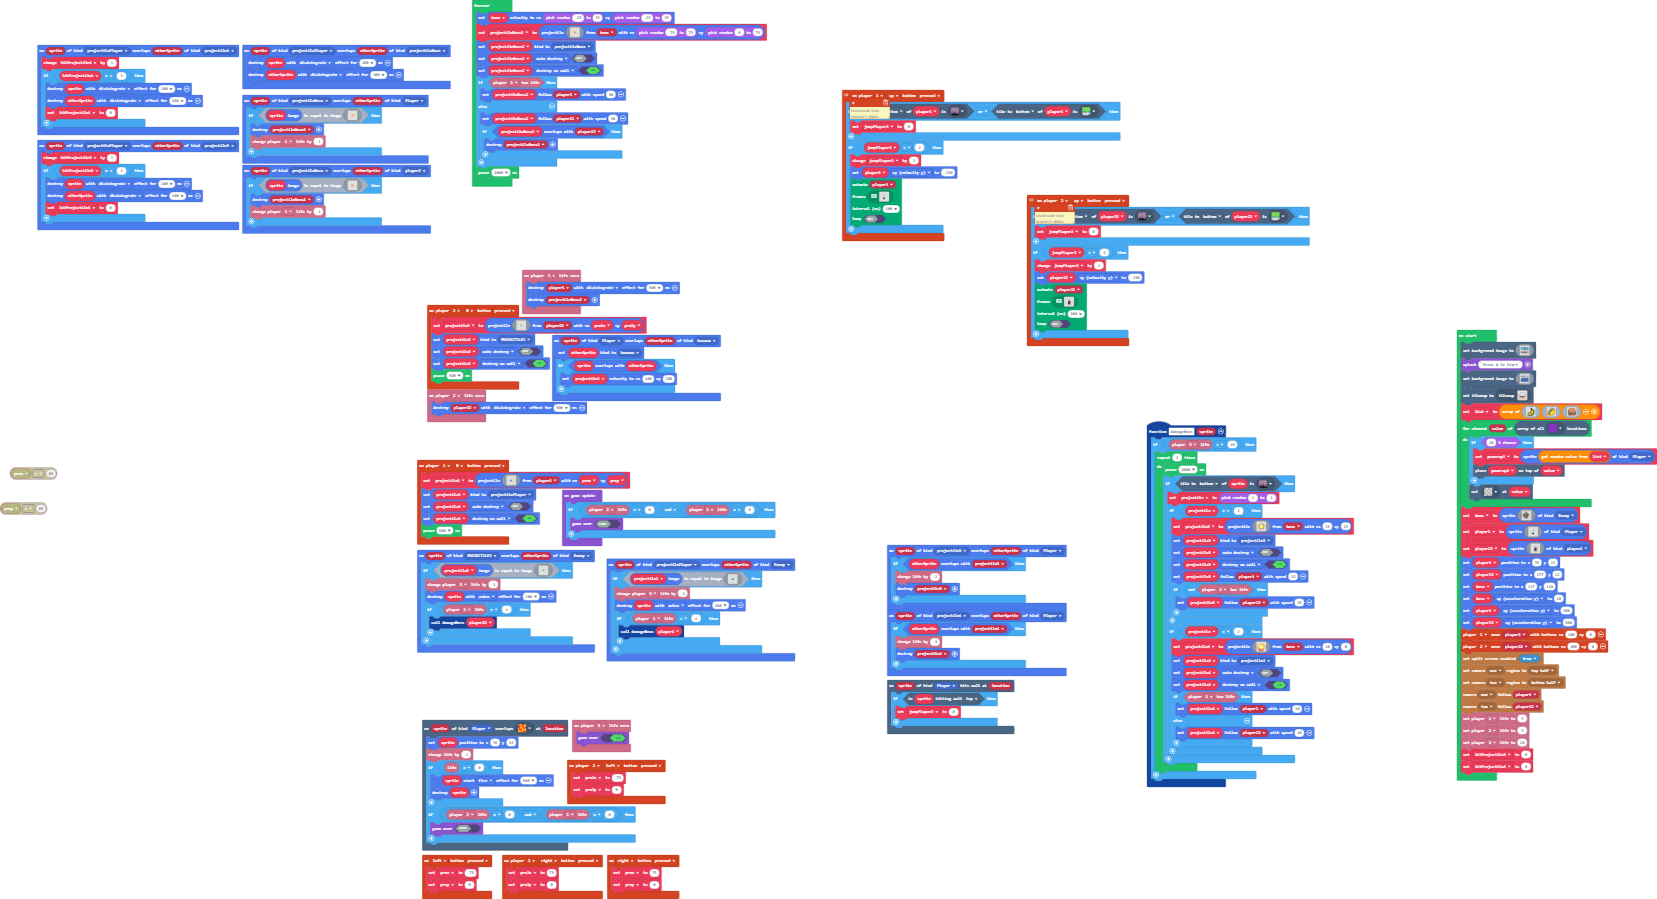
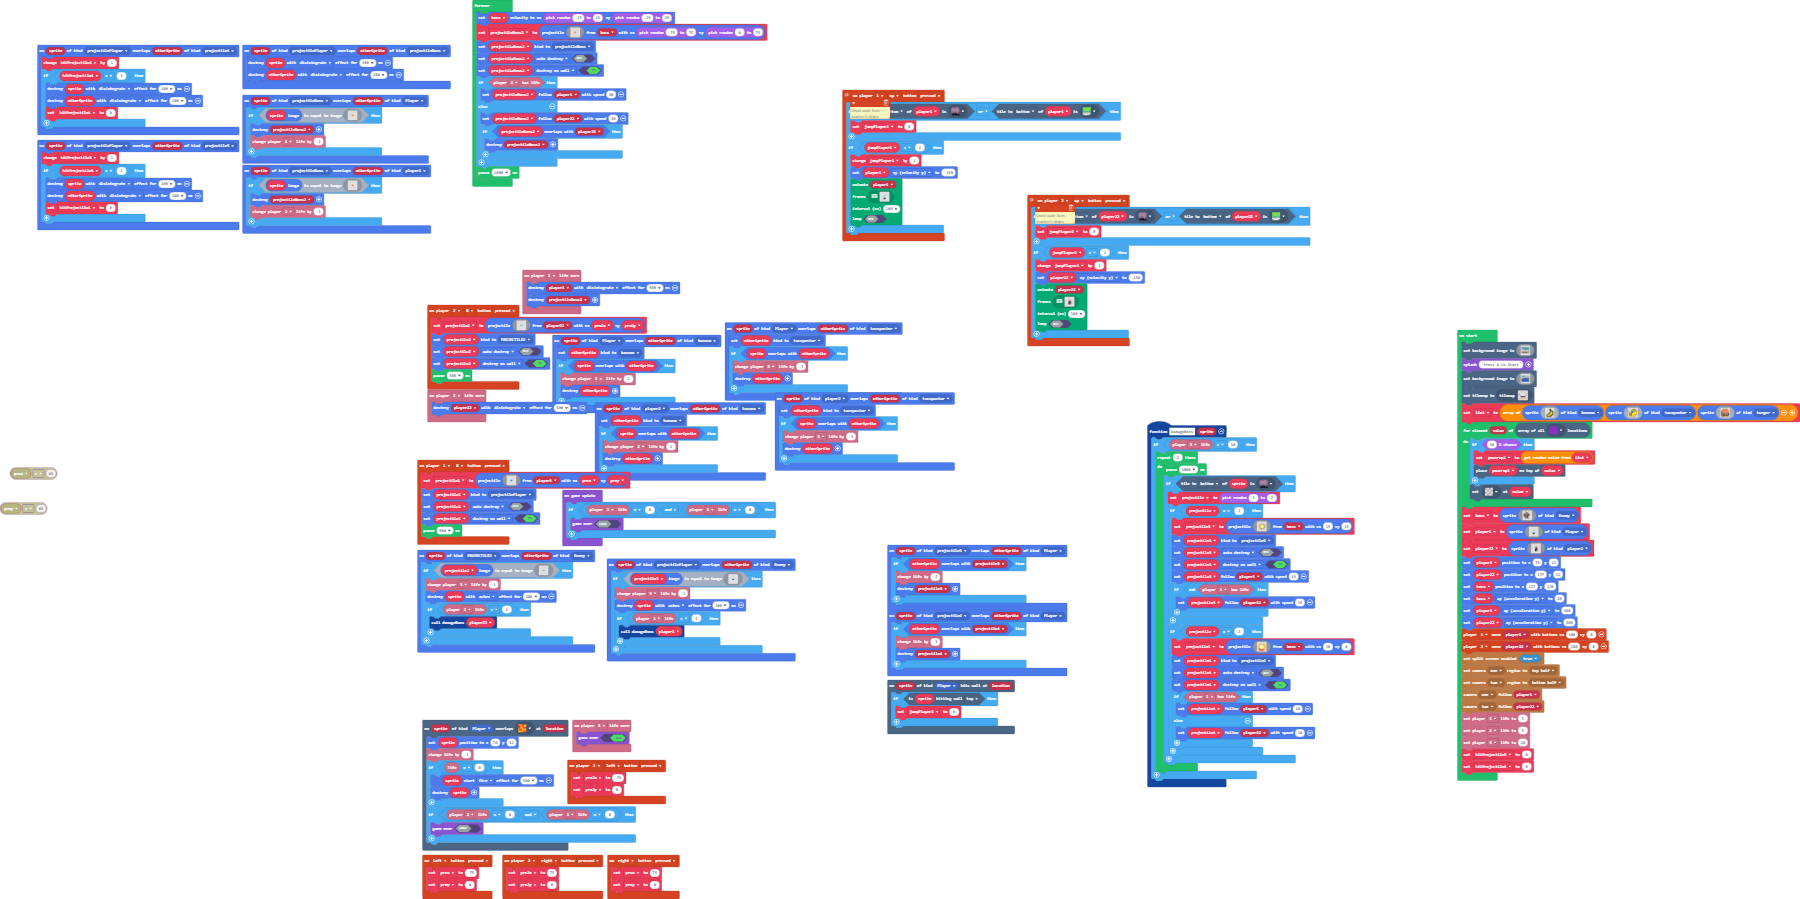
Update main.blocks, main.ts, tilemap.g.jres, tilemap.g.ts

diff --git a/main.ts b/main.ts
@@ -6,6 +6,8 @@ namespace SpriteKind {
     export const projectile3 = SpriteKind.create()
     export const projectile4 = SpriteKind.create()
     export const banana = SpriteKind.create()
+    export const tacopastor = SpriteKind.create()
+    export const burger = SpriteKind.create()
 }
 scene.onHitWall(SpriteKind.Player, function (sprite, location) {
     if (sprite.isHittingTile(CollisionDirection.Top)) {
@@ -528,6 +530,13 @@ controller.player2.onButtonEvent(ControllerButton.Up, ControllerButtonEvent.Pres
         )
     }
 })
+sprites.onOverlap(SpriteKind.player2, SpriteKind.banana, function (sprite, otherSprite) {
+    otherSprite.setKind(SpriteKind.banana)
+    if (sprite.overlapsWith(otherSprite)) {
+        info.player2.changeLifeBy(2)
+        sprites.destroy(otherSprite)
+    }
+})
 controller.right.onEvent(ControllerButtonEvent.Pressed, function () {
     prox = 75
     proy = 0
@@ -535,6 +544,13 @@ controller.right.onEvent(ControllerButtonEvent.Pressed, function () {
 controller.player2.onButtonEvent(ControllerButton.Right, ControllerButtonEvent.Pressed, function () {
     pro2x = 75
     pro2y = 0
+})
+sprites.onOverlap(SpriteKind.player2, SpriteKind.tacopastor, function (sprite, otherSprite) {
+    otherSprite.setKind(SpriteKind.tacopastor)
+    if (sprite.overlapsWith(otherSprite)) {
+        info.player3.changeLifeBy(-3)
+        sprites.destroy(otherSprite)
+    }
 })
 function damageBoss (sprite: Sprite) {
     if (info.player3.life() < 10) {
@@ -619,6 +635,13 @@ controller.player2.onButtonEvent(ControllerButton.Left, ControllerButtonEvent.Pr
     pro2x = -75
     pro2y = 0
 })
+sprites.onOverlap(SpriteKind.Player, SpriteKind.tacopastor, function (sprite, otherSprite) {
+    otherSprite.setKind(SpriteKind.tacopastor)
+    if (sprite.overlapsWith(otherSprite)) {
+        info.player3.changeLifeBy(-3)
+        sprites.destroy(otherSprite)
+    }
+})
 info.player1.onLifeZero(function () {
     sprites.destroy(player1, effects.disintegrate, 500)
     sprites.destroy(projectileBoss2)
@@ -657,7 +680,8 @@ sprites.onOverlap(SpriteKind.projectilePlayer, SpriteKind.projectileBoss, functi
 sprites.onOverlap(SpriteKind.Player, SpriteKind.banana, function (sprite, otherSprite) {
     otherSprite.setKind(SpriteKind.banana)
     if (sprite.overlapsWith(otherSprite)) {
-        projectile1.setVelocity(100, 100)
+        info.player1.changeLifeBy(2)
+        sprites.destroy(otherSprite)
     }
 })
 let projectile = 0
@@ -924,7 +948,7 @@ scene.setBackgroundImage(img`
[1 lines of base64/hex data omitted]
     `)
 tiles.setCurrentTilemap(tilemap`level1`)
-let list = [img`
+let list = [sprites.create(img`
     . . . . . . f . . . . . 
     . . . . . f e f . . . . 
     . . . . . . f 5 f . . . 
@@ -937,7 +961,7 @@ let list = [img`
     . f 5 5 5 5 5 5 f f . . 
     . f 5 5 5 5 f f f . . . 
     . . f f f f f . . . . . 
-    `, img`
+    `, SpriteKind.banana), sprites.create(img`
     . . . . . . e e e . . . 
     . . . . e e 4 5 5 e . . 
     . . . . 4 5 6 2 7 6 e . 
@@ -950,7 +974,7 @@ let list = [img`
     e 5 e c 4 5 4 5 5 e . . 
     e 5 e e 5 5 5 4 e . . . 
     . 4 5 4 5 4 e . . . . . 
-    `, img`
+    `, SpriteKind.tacopastor), sprites.create(img`
     . . . c 4 4 4 4 6 6 . . 
     . . 4 4 b 4 4 4 4 4 . . 
     . e 4 4 b 4 4 4 b 4 4 . 
@@ -963,10 +987,10 @@ let list = [img`
     c 6 4 f f f e f f f b 6 
     . f 4 4 4 4 4 4 4 4 4 e 
     . . f b b b 4 4 4 e . . 
-    `]
+    `, SpriteKind.burger)]
 for (let value of tiles.getTilesByType(sprites.swamp.swampTile9)) {
-    if (Math.percentChance(20)) {
-        powerup1 = sprites.create(list._pickRandom(), SpriteKind.Player)
+    if (Math.percentChance(50)) {
+        powerup1 = list._pickRandom()
         tiles.placeOnTile(powerup1, value)
     }
     tiles.setTileAt(value, assets.tile`transparency16`)

diff --git a/tilemap.g.ts b/tilemap.g.ts
@@ -5,25 +5,6 @@ namespace myTiles {
 
     helpers._registerFactory("tilemap", function(name: string) {
         switch(helpers.stringTrim(name)) {
-            case "level1":
-            case "level1":return tiles.createTilemap(hex`1000100000000000000000000000000000000000000000000000000000000000000000000000000000070000000007000000000000000000060600000000060600000000000000000000000000000000000000000000000000000000000000000000000000070000000000000000000000000700010100000000000000000000000001010000000000000000000000000000000000000007000000000000000007000000000000010101010101010101010000000000000302020202020202020400000000000000000000000000000000000000000000000000000000000000000000000000000000000000000000000000000005050505050505050505050505050505`, img`
-. . . . . . . . . . . . . . . . 
-. . . . . . . . . . . . . . . . 
-. . . . . . . . . . . . . . . . 
-. . . . 2 2 . . . . 2 2 . . . . 
-. . . . . . . . . . . . . . . . 
-. . . . . . . . . . . . . . . . 
-. . . . . . . . . . . . . . . . 
-2 2 . . . . . . . . . . . . 2 2 
-. . . . . . . . . . . . . . . . 
-. . . . . . . . . . . . . . . . 
-. . . 2 2 2 2 2 2 2 2 2 2 . . . 
-. . . . . . . . . . . . . . . . 
-. . . . . . . . . . . . . . . . 
-. . . . . . . . . . . . . . . . 
-. . . . . . . . . . . . . . . . 
-. . . . . . . . . . . . . . . . 
-`, [myTiles.transparency16,sprites.builtin.oceanDepths0,sprites.builtin.oceanDepths9,sprites.builtin.oceanDepths8,sprites.builtin.oceanDepths10,sprites.dungeon.hazardLava1,sprites.skillmap.islandTile7,sprites.swamp.swampTile9], TileScale.Sixteen);
             case "level2":
             case "level2":return tiles.createTilemap(hex`1000100000000000000000000000000000000000000000000000000000000000000000000000000000000000000000000000000000000000000000000000000000000000000000000000000000000000000000000000000000000000000000000000000000000000000000000000000000000000000000000000000000000000000000000000000000000000000000000000000000000000000000000000000000000000000000000000000000000000000000000000000000000000000000000000000000000000000000000000000000000000000000000000000000000000000000000000000000000000000000000000000000000000000000000000000000000000`, img`
 . . . . . . . . . . . . . . . . 
@@ -43,6 +24,25 @@ namespace myTiles {
 . . . . . . . . . . . . . . . . 
 . . . . . . . . . . . . . . . . 
 `, [myTiles.transparency16], TileScale.Sixteen);
+            case "level1":
+            case "level1":return tiles.createTilemap(hex`1000100000000000000000000000000000000000000000000007000000000700000000000000000000000000000000000000000000000000060600000000060600000000000000000000000000000000000000000007000000000000000000000000070000000000000000000000000000000000010100000000000000000000000001010000000700000000000000000700000000000000000000000000000000000000000000010101010101010101010000000000000302020202020202020400000000000000000000000000000000000000000000000000000000000000000000000000000000000000000000000000000005050505050505050505050505050505`, img`
+. . . . . . . . . . . . . . . . 
+. . . . . . . . . . . . . . . . 
+. . . . . . . . . . . . . . . . 
+. . . . 2 2 . . . . 2 2 . . . . 
+. . . . . . . . . . . . . . . . 
+. . . . . . . . . . . . . . . . 
+. . . . . . . . . . . . . . . . 
+2 2 . . . . . . . . . . . . 2 2 
+. . . . . . . . . . . . . . . . 
+. . . . . . . . . . . . . . . . 
+. . . 2 2 2 2 2 2 2 2 2 2 . . . 
+. . . . . . . . . . . . . . . . 
+. . . . . . . . . . . . . . . . 
+. . . . . . . . . . . . . . . . 
+. . . . . . . . . . . . . . . . 
+. . . . . . . . . . . . . . . . 
+`, [myTiles.transparency16,sprites.builtin.oceanDepths0,sprites.builtin.oceanDepths9,sprites.builtin.oceanDepths8,sprites.builtin.oceanDepths10,sprites.dungeon.hazardLava1,sprites.skillmap.islandTile7,sprites.swamp.swampTile9], TileScale.Sixteen);
         }
         return null;
     })
